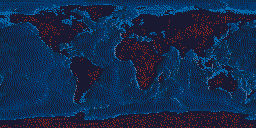
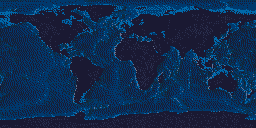
feat: basic food dropping system
Add WIP food dropping
Update map texture
Add MIN_SCORE_GAIN and MAX_SCORE_GAIN variables to settings.py

diff --git a/main.py b/main.py
@@ -19,8 +19,11 @@ map = pygame.image.load("data/images/map.png")
 # values
 score = 0
 
-selectioned_continent = None
+# continent
+selectioned_continent = False
+selectioned_continent_name = "north_america"
 
+# food
 current_food = random.choice(list(FOOD_DATA.keys()))
 def change_food():
     global current_food
@@ -35,16 +38,22 @@ while running:
         if event.type == pygame.QUIT:
             running = False
         if event.type == pygame.KEYDOWN:
-            if event.key == pygame.K_SPACE:
-                score = 0
-            elif event.key == pygame.K_UP:
-                score += 1
-            elif event.key == pygame.K_DOWN:
-                score -= 1
             if event.key == pygame.K_TAB:
                 change_food()
+        if event.type == pygame.MOUSEBUTTONDOWN:
+            if selectioned_continent:
+                if current_food in CONTINENT_DATA[selectioned_continent_name]["food"]:
+                    score += random.randint(MIN_SCORE_GAIN, MAX_SCORE_GAIN)
+                else:
+                    score -= random.randint(MIN_SCORE_GAIN, MAX_SCORE_GAIN)
+                change_food()
+                print(f"dropping {current_food.capitalize()} in {selectioned_continent_name.capitalize()} !!!!!!!")
 
-    # displaying things on screen
+    # updating and displaying things on screen
+
+    # fixing score
+    if score < 0:
+        score = 0
 
     # fill screen with background colour
     screen.fill(BACKGROUND_COLOUR)
@@ -61,6 +70,7 @@ while running:
     food_img = pygame.transform.scale(food_img, food_size)
     screen.blit(food_img, mouse_pos)
 
+    selectioned_continent = False
     for continent in CONTINENT_DATA:
         continent_min_x = CONTINENT_DATA[continent]["min_coords"][0] * 4
         continent_min_y = CONTINENT_DATA[continent]["min_coords"][1] * 4
@@ -86,6 +96,10 @@ while running:
 
                 # write a text indicating the selected continent name
                 ui.write_continent_name(screen, font, continent, TEXT_COLOUR)
+
+                # update variables
+                selectioned_continent = True
+                selectioned_continent_name = continent
                 break
 
 

diff --git a/settings.py b/settings.py
@@ -5,6 +5,9 @@ WIDTH = 1024
 HEIGHT = 640
 TITLE = "Cliché"
 
+MIN_SCORE_GAIN = 3
+MAX_SCORE_GAIN = 12
+
 FONT_SIZE = 16
 
 BORDER_WIDTH = 4
@@ -32,11 +35,11 @@ FOOD_DATA = {
 }
 
 CONTINENT_DATA = {
-    "north_america": {"food": ["donut"], "min_coords": (11, 7), "max_coords": (87, 55)},
-    "south_america": {"food": ["donut"], "min_coords": (67, 57), "max_coords": (100, 101)},
-    "europe": {"food": ["bread"], "min_coords": (121, 15), "max_coords": (152, 40)},
-    "africa": {"food": ["bread"], "min_coords": (113, 38), "max_coords": (163, 90)},
-    "asia": {"food": ["bread"], "min_coords": (160, 16), "max_coords": (245, 55)},
-    "australia": {"food": ["bread"], "min_coords": (202, 71), "max_coords": (239, 94)},
-    "antarctica": {"food": ["bread"], "min_coords": (0, 112), "max_coords": (256, 128)},
+    "north_america": {"food": ["donut", "python"], "min_coords": (11, 7), "max_coords": (87, 55)},
+    "south_america": {"food": ["donut", "python"], "min_coords": (67, 57), "max_coords": (100, 101)},
+    "europe": {"food": ["bread", "python"], "min_coords": (121, 15), "max_coords": (152, 40)},
+    "africa": {"food": ["bread", "python"], "min_coords": (113, 38), "max_coords": (163, 90)},
+    "asia": {"food": ["bread", "python"], "min_coords": (160, 16), "max_coords": (245, 55)},
+    "australia": {"food": ["bread", "python"], "min_coords": (202, 71), "max_coords": (239, 94)},
+    "antarctica": {"food": ["bread", "python"], "min_coords": (0, 112), "max_coords": (256, 128)},
 }
